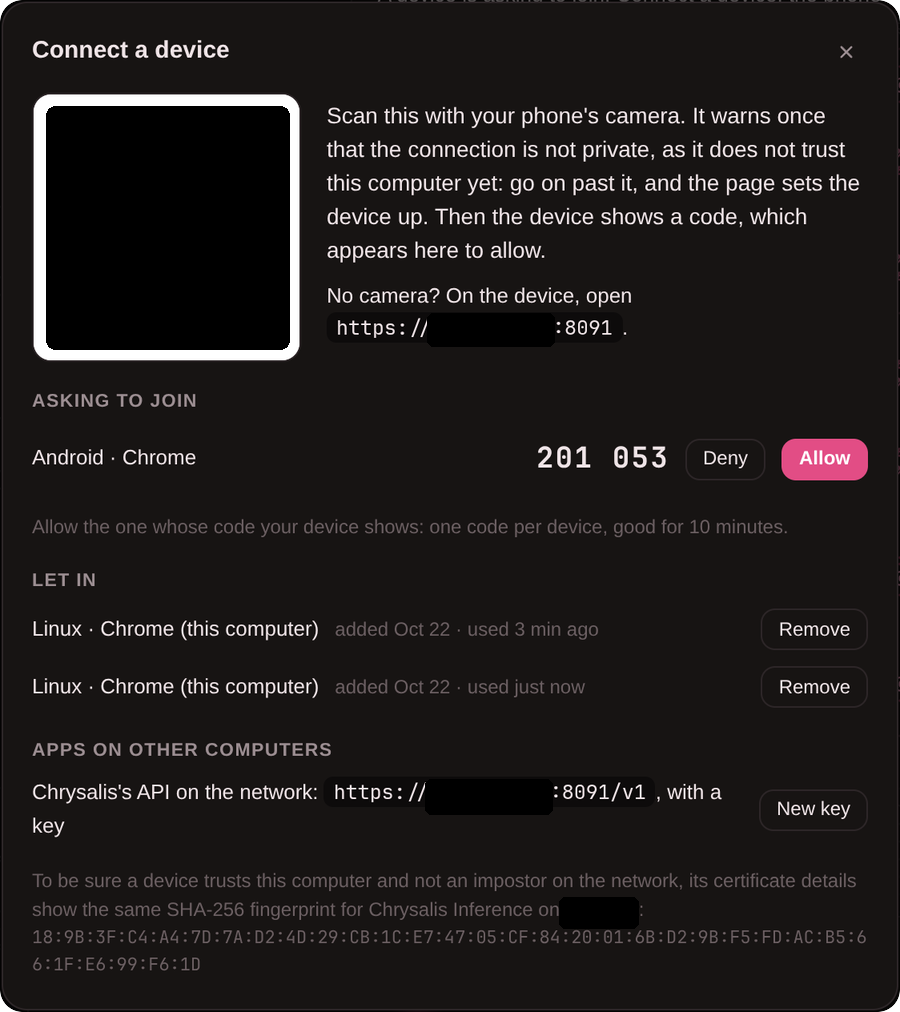
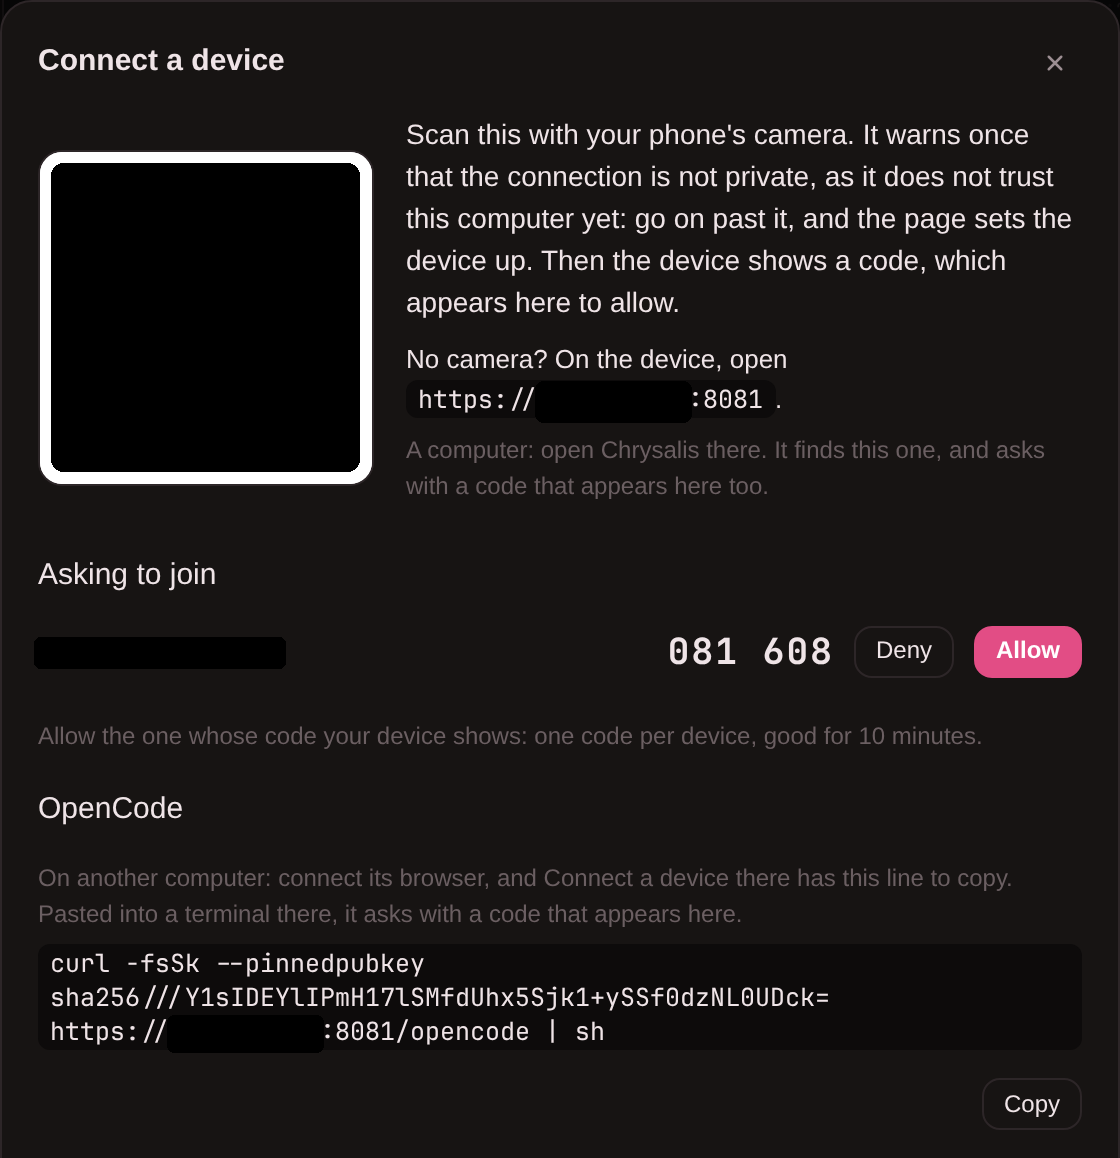
The README shows coding on another computer in pictures, the OpenCode line in the browser, its login in a terminal and a session on Chrysalis's models, recorded from OpenCode on a Mac, and the phone and Connect a device pictures are retaken from what Chrysalis shows now

diff --git a/README.md b/README.md
@@ -251,21 +251,26 @@ network, and only devices you allow get past the connect page.</sub>
 
 ## Coding on another computer
 
-Chrysalis takes the memory, so code on another machine: it needs [OpenCode](https://opencode.ai) and nothing of Chrysalis.
+Chrysalis takes the memory, so code on another machine. That machine needs [OpenCode](https://opencode.ai) and nothing of
+Chrysalis. Start Chrysalis with `chrysalis.sh --host 0.0.0.0`, then:
 
-1. Run Chrysalis on your network: `chrysalis.sh --host 0.0.0.0`.
-2. On the computer you code on, open the address it prints, and allow the code, as for a phone.
-3. In the chat there, press Connect a device, the phone at the top, and Copy the line.
-4. Paste it into a terminal (on Windows, WSL's, with OpenCode installed there). If OpenCode is open, it asks you to close it.
-5. Allow the code it shows, in Chrysalis's terminal or under Connect a device.
-6. In OpenCode, `/models` has Chrysalis's models, under Chrysalis on your computer's name.
+<p align="center"><img src="media/opencode-copy.png" width="560" alt="Connect a device in that computer's browser: the OpenCode line and its Copy button"></p>
 
-With no browser there, as on a server over SSH, Chrysalis's terminal prints the same line. Remove under Connect a device
-takes the computer's access away. While Chrysalis is off OpenCode says it can't connect and keeps trying, and the reply
-comes once Chrysalis is back.
+<sub>Open Chrysalis in that computer's browser and allow its code, as for a phone. Connect a device, the phone at the top,
+has a line to copy. With no browser there, as on a server over SSH, Chrysalis's terminal prints the same line.</sub>
+
+<p align="center"><img src="media/opencode-login.png" width="760" alt="The line pasted into a terminal: it shows a code to allow, then Connected"></p>
+
+<sub>Paste it into a terminal (on Windows, WSL's), and allow the code it shows, in Chrysalis's terminal or under Connect a
+device. If OpenCode is open, it asks you to close it first.</sub>
+
+<p align="center"><img src="media/opencode-models.png" width="440" alt="OpenCode's model picker: Qwen3.8 Flash-Next and Qwen3.8 27B under Chrysalis on omarchy"> <img src="media/opencode-coding.png" width="440" alt="OpenCode writing and running fib.py on Qwen3.8 Flash-Next, Chrysalis on omarchy"></p>
+
+<sub>Pick a Chrysalis model with `ctrl+x m`, and code. While Chrysalis is off OpenCode says it can't connect and keeps trying,
+and the reply comes once it is back. Remove under Connect a device takes the computer's access away.</sub>
 
 The line carries this computer's key, so it refuses any impostor, and only computers you allow get in. OpenCode reaches
-Chrysalis over HTTPS by its name on your network, and trusts its authority for names on your network alone.
+Chrysalis over HTTPS by a name Chrysalis answers on your network, and trusts its authority for names on your network alone.
 
 ## Also
 
